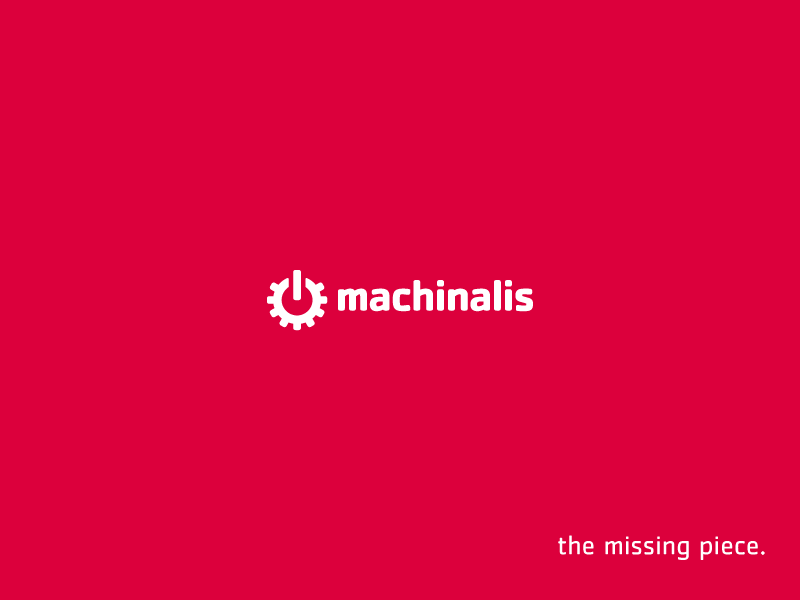
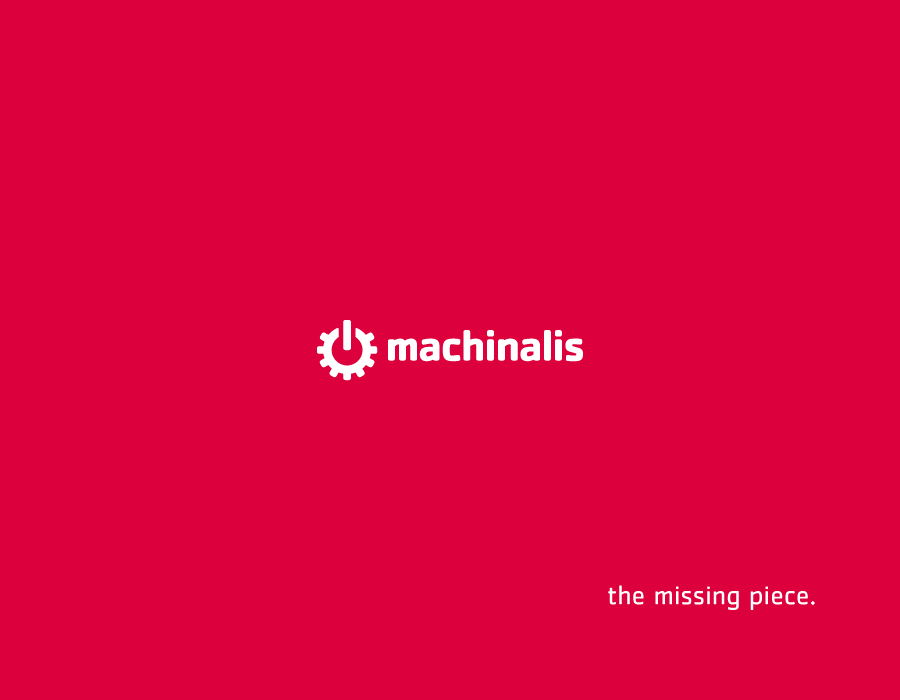
Updated styles for initial and last slides

Changed region(s): [[0.3125, 0.45, 0.6875, 0.57], [0.6875, 0.9, 0.9688, 0.93], [0.6562, 0.84, 0.9062, 0.87]]

diff --git a/landslide-theme/machinalis/css/screen.css b/landslide-theme/machinalis/css/screen.css
@@ -1,5 +1,5 @@
 @font-face {
-  font-family: Goudy;
+  font-family: 'Goudy';
   src: url('../fonts/OFLGoudyStMTT.ttf');
 }
 
@@ -59,6 +59,14 @@ div.slide {
   border-bottom-left-radius: 20px;
   -moz-border-radius-bottomleft: 20px;
   -webkit-border-bottom-left-radius: 20px;
+}
+
+div.slide:first-child {
+  background: url('../img/00.png');
+}
+
+div.slide.last {
+  background: url('../img/00-fin.png');
 }
 
 div.slide p {
@@ -170,6 +178,10 @@ li {
   font-size: 63px;
   margin-top:100px;
   margin-bottom:100px;
+}
+
+.slide:first-child header:only-child h1 { /* Header on first slide shouldn't overlap with the machinalis logo */
+  vertical-align: top;
 }
 
 .sidebar {

diff --git a/landslide-theme/machinalis/base.html b/landslide-theme/machinalis/base.html
@@ -75,6 +75,15 @@
         </footer>
       </div>
       {% endfor %}
+      <div class="slide last">
+        <div class="inner">
+        </div>
+        <footer>
+          <aside class="page_number">
+            © <a href="http://www.machinalis.com">Machinalis</a>
+          </aside>
+        </footer>
+      </div>
     </div>
   </div>
   {% if toc %}
